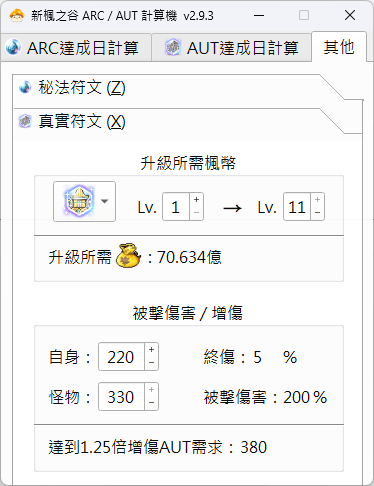
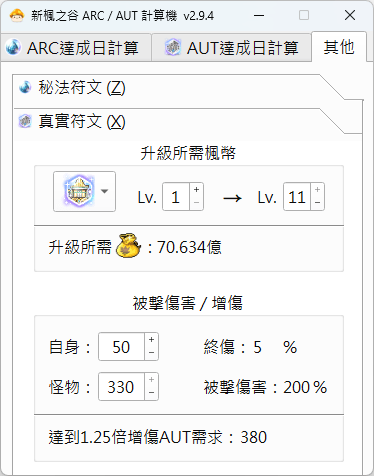
v2.9.4

diff --git a/README.md b/README.md
@@ -3,14 +3,14 @@
 
 [![Codacy Badge](https://app.codacy.com/project/badge/Grade/020d720a719a400082f1ef7b1d1aa39e)](https://www.codacy.com/gh/WhatTheBlock/MapleStory-ARC-Calculator/dashboard?utm_source=github.com&amp;utm_medium=referral&amp;utm_content=WhatTheBlock/MapleStory-ARC-Calculator&amp;utm_campaign=Badge_Grade)
 
-### 適用的遊戲版本為 TMS v252
+### 適用的遊戲版本為 TMS v253
 
 - 巴哈姆特詳細介紹文章：[點我](https://forum.gamer.com.tw/C.php?bsn=7650&snA=1000541) <br><br>
 
 #### 若計算公式未即時更新請至巴哈姆特文章回覆通知
 #### 感謝您 😊 <br><br>
 
-### UI介面：
+### 使用介面：
 ----
 ![ui_1.png](/ui_1.png) <br>
 ![ui_2.png](/ui_2.png) <br>
@@ -18,6 +18,17 @@
 
 ### Changelog：
 ----
+
+#### v2.9.4
+- 跟進TMS v253系統改動
+- 重寫ARC取得方式
+- 達成日的計算邏輯調整為起始日獲得量也計算進去
+- 修正ARC 1.5倍增傷數值錯誤，因極限屬性讓ARC尾數有可能出現5，無需再進位
+- 修正其他分頁空白過多的問題
+- ARC傷害計算的自身ARC步進單位改為5
+- AUT傷害計算的自身AUT步進單位改為10
+- ARC達成日計算的目標ARC步進單位改為5
+- AUT達成日計算的目標AUT步進單位改為10
 
 #### v2.9.3
 - 新增奧迪溫AUT達成日計算
@@ -56,28 +67,3 @@
 - 新增部分介面說明
 - 修正秘法觸媒的錯誤
 - 32位元系統支援
-
-#### v2.7.1
-- (New) 新增檢查更新失敗提示
-- 修正檢查更新失敗
-- 修正版本號錯誤
-
-#### v2.7
-- (New) 新增ARC升級所需楓幣提示
-- (New) 新增ARC升級所需天數提示
-- (New) 新增ARC升級日期提示
-- (New) 新增秘法觸媒省錢技巧提示
-- 修正升級所需楓幣在0元時還有分位符號的錯誤
-- 修正升級所需楓幣在歸零時沒有分位符號的錯誤
-- 修正秘法觸媒所需楓幣計算錯誤
-- 修正秘法觸媒成長等級滿級後還可增加成長值的錯誤
-- 調整偵錯功能
-
-#### v2.6
-- (New) 新增檢查更新功能
-- (New) 新增公會技能選項
-- (New) 新增巴哈文章連結
-- (New) 新增Github專案連結
-- 調整屬性增加量顯示方式
-- 提高個人ARC上限至1450
-- 修正提醒訊息視窗標題沒有圖標的錯誤
